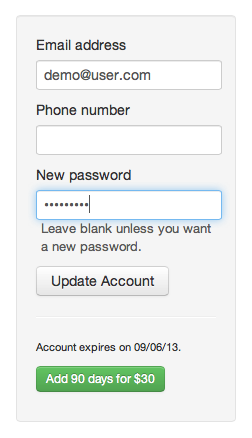
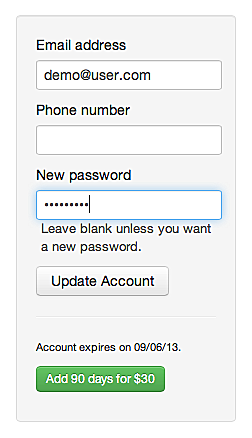
Adds additional pages, content, and styles to How it works

diff --git a/css/theme.css.scss b/css/theme.css.scss
@@ -404,3 +404,12 @@ div#errors {
 .card-expiry-year {
 	width: 70px !important;
 }
+
+.white-well	{
+	width: 96%;
+	margin: 7px;
+	-webkit-border-radius: 6px;
+		 -moz-border-radius: 6px;
+		 		  border-radius: 6px;
+	@include box-shadow(0px, 0px, 7px, #b2b5bc);
+}
